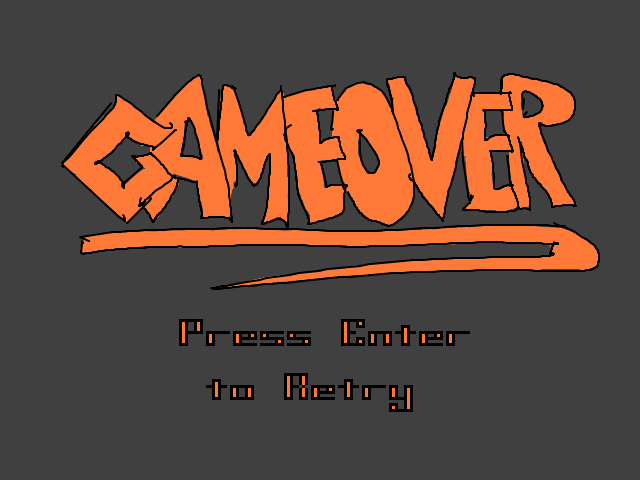
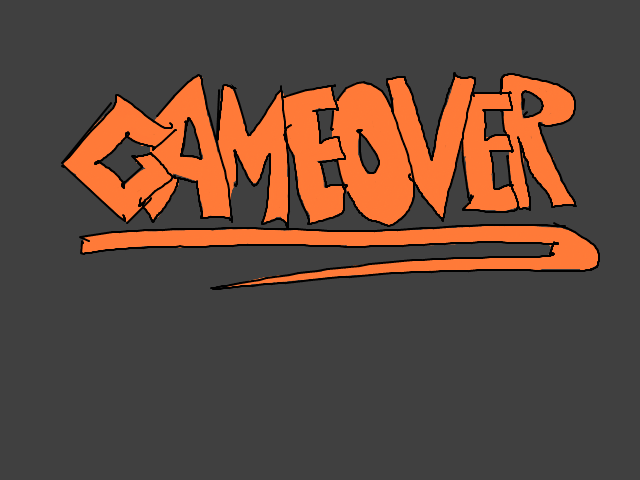
Retry menu working, fixed images

diff --git a/American Hobo/American Hobo/americanHobo.cpp b/American Hobo/American Hobo/americanHobo.cpp
@@ -272,7 +272,6 @@ void AmericanHobo::gameStateUpdate()
 		{
 			PostQuitMessage(1);
 		}
-		
 	}
 	//Leave controls screen
 	if (gameStates == Controls && input->isKeyDown(VK_RETURN) && !returnDebounce)
@@ -284,6 +283,7 @@ void AmericanHobo::gameStateUpdate()
 	if (gameStates == Level1 && killCount == 0)
 	{
 		gameStates = MenuScreen;
+		mainMenu->setMenuName(main);
 		currentLevel = 2;
 	}
 	//Hardcoded menuscreen that should be replaced
@@ -306,6 +306,7 @@ void AmericanHobo::gameStateUpdate()
 	if (gameStates == Level2 && killCount == 0)
 	{
 		gameStates = MenuScreen;
+		mainMenu->setMenuName(main);
 		currentLevel = 3;
 	}
 	if(gameStates == MenuScreen && currentLevel == 3 && input->isKeyDown(VK_RETURN) && !returnDebounce)
@@ -338,6 +339,7 @@ void AmericanHobo::gameStateUpdate()
 	if (hero.getHealth() <= 0)
 	{
 		gameStates = GameOver;
+		mainMenu->setMenuName(retry);
 		hero.heal();
 		for (int i = 0; i<10; i++)
 		{
@@ -352,10 +354,10 @@ void AmericanHobo::gameStateUpdate()
 		score = 0;
 		mainMenu->setCurrentMoney(0);
 	}
-	//Retry code, flush this out
-	if (gameStates == GameOver)
+	//Retry code
+	if (gameStates == GameOver && input->isKeyDown(VK_RETURN) && !returnDebounce)
 	{
-		if (input->isKeyDown(VK_RETURN))
+		if (mainMenu->getSelectedItem() == 0)
 		{
 			if (currentLevel == 1)
 			{
@@ -369,6 +371,10 @@ void AmericanHobo::gameStateUpdate()
 			{
 				initializeLevel3();
 			}
+		}
+		else if (mainMenu->getSelectedItem() == 1)
+		{
+			PostQuitMessage(1);
 		}
 	}
 	//Cycle back to level 1 currently, change to send back to title menu screen
@@ -418,6 +424,7 @@ void AmericanHobo::update()
 	switch (gameStates)
 	{
 	case Title:
+	case GameOver:
 		mainMenu->update();
 		break;
 	case Controls:
@@ -596,6 +603,7 @@ void AmericanHobo::render()
 		break;
 	case GameOver:
 		gameOver.draw();
+		mainMenu->displayMenu();
 		break;
 	case Title:
 		title.draw();

diff --git a/American Hobo/American Hobo/menu.cpp b/American Hobo/American Hobo/menu.cpp
@@ -36,6 +36,7 @@ void Menu::initialize(Graphics *g, Input *i)
 	subMenu5.push_back("Very Long Shield 2 - 500"); subMenu5.push_back("Back");
 	subMenu6.push_back("Recovery"); subMenu6.push_back("25 HP - 300"); subMenu6.push_back("50 HP - 400");  subMenu6.push_back("Back");
 	titleMenu.push_back("Play"); titleMenu.push_back("Controls"); titleMenu.push_back("Exit");
+	retryMenu.push_back("Retry"); retryMenu.push_back("Exit");
 	highlightColor = graphicsNS::RED;
 	normalColor = graphicsNS::WHITE;
 	menuAnchor = D3DXVECTOR2(50,50);
@@ -156,6 +157,9 @@ void Menu::update()
 	case title:
 		pointerCheckerWrappingWithoutTitle(linePtr, titleMenu);
 		confirmChecker(titleMenuDepressedLastFrame);
+	case retry:
+		pointerCheckerWrappingWithoutTitle(linePtr, retryMenu);
+		confirmChecker(retryMenuDepressedLastFrame);
 		break;
 	}
 }
@@ -170,7 +174,9 @@ void Menu::displayMenu()
 	}
 	else if (menuName == retry)
 	{
-		buildMenuWithoutTitle(retryMenu, 1, retry);
+		menuAnchor = D3DXVECTOR2(300, 325);
+		buildMenuWithoutTitle(retryMenu, 0, retry);
+		menuAnchor = D3DXVECTOR2(50, 50);
 	}
 	else
 	{

diff --git a/American Hobo/American Hobo/menu.h b/American Hobo/American Hobo/menu.h
@@ -59,6 +59,7 @@ private:
    bool sub5DepressedLastFrame;
    bool sub6DepressedLastFrame;
    bool titleMenuDepressedLastFrame;
+   bool retryMenuDepressedLastFrame;
    menu menuName;
    ownership ownage;
 
